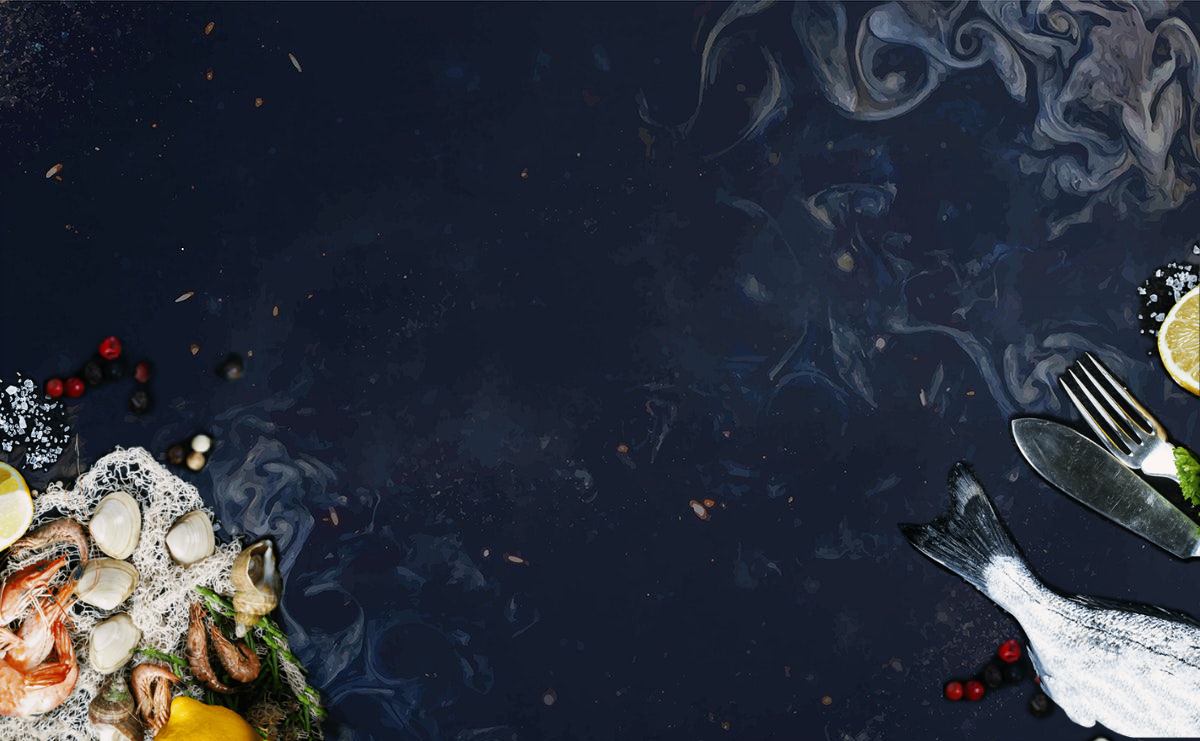
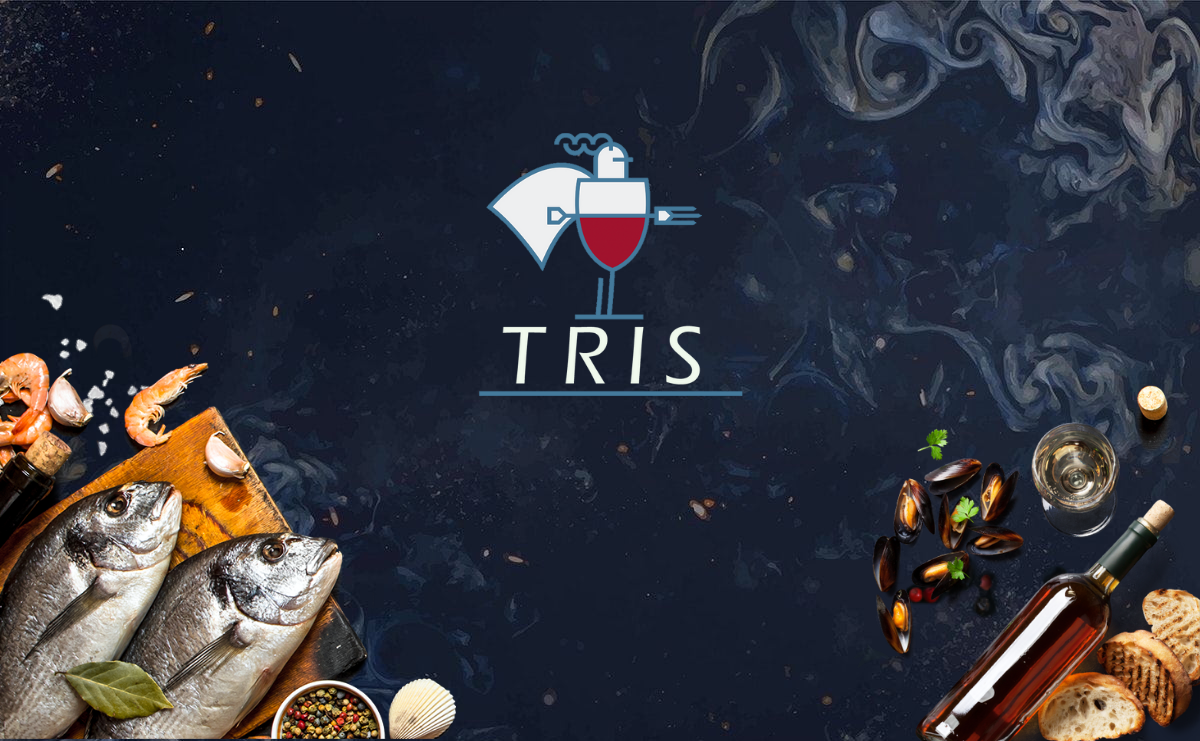
create slider for hero section

diff --git a/index.html b/index.html
@@ -36,17 +36,38 @@
       </nav>
     </header>
     <!-- main section -->
-    <main class="l-main">
-      <!-- <div class="l-main__hero">
-        <div class="l-main__hero--slider">
-          <img id="hero_bg" src="/img/main/hero/peakpx.jpg" alt="background image">
-          <div class="image-1__container">
-            <img src="/img/main/hero/pic1/p1-fr1.png">
-            <img src="/img/main/hero/pic1/p1-fr2.png">
-            <img src="/img/main/hero/pic1/p1-fr3.png">
-          </div>
-        </div>
-      </div> -->
+    <main class="l-main"> 
+      <!-- Slideshow container -->
+<div class="slideshow-container">
+
+  <!-- Full-width images with number and caption text -->
+  <div class="mySlides fade">
+    <img src="/img/main/hero/main-hero-bg1.png" style="width:100%">
+    <div class="text">Caption Text</div>
+  </div>
+
+  <div class="mySlides fade">
+    <img src="/img/main/hero/main-hero-bg2.png" style="width:100%">
+    <div class="text">Caption Two</div>
+  </div>
+
+  <div class="mySlides fade">
+    <img src="/img/main/hero/main-hero-bg3.png" style="width:100%">
+    <div class="text">Caption Three</div>
+  </div>
+
+  <!-- Next and previous buttons -->
+  <a class="prev" onclick="plusSlides(-1)">&#10094;</a>
+  <a class="next" onclick="plusSlides(1)">&#10095;</a>
+</div>
+<br>
+
+<!-- The dots/circles -->
+<div style="text-align:center">
+  <span class="dot" onclick="currentSlide(1)"></span>
+  <span class="dot" onclick="currentSlide(2)"></span>
+  <span class="dot" onclick="currentSlide(3)"></span>
+</div>
       <p>
         Lorem ipsum dolor sit amet consectetur adipisicing elit. Dolorem ex, eius cum tempora aut
         tenetur at itaque eligendi voluptatem et culpa est? Voluptate, fugit autem. Dolorem expedita

diff --git a/css/object/project/_home.scss b/css/object/project/_home.scss
@@ -1,0 +1,81 @@
+//*==========================
+//          hero
+//==========================
+.slideshow-container {
+    // max-width: 1000px;
+    // position: relative;
+    // margin: auto;
+  }
+  
+  /* Hide the images by default */
+  .mySlides {
+    display: none;
+  }
+  
+  /* Next & previous buttons */
+  .prev, .next {
+    cursor: pointer;
+    position: absolute;
+    top: 50%;
+    width: auto;
+    margin-top: -22px;
+    padding: 16px;
+    color: white;
+    font-weight: bold;
+    font-size: 18px;
+    transition: 0.6s ease;
+    border-radius: 0 3px 3px 0;
+    user-select: none;
+  }
+  
+  /* Position the "next button" to the right */
+  .next {
+    right: 0;
+    border-radius: 3px 0 0 3px;
+  }
+  
+  /* On hover, add a black background color with a little bit see-through */
+  .prev:hover, .next:hover {
+    background-color: rgba(0,0,0,0.8);
+  }
+  
+  /* Caption text */
+  .text {
+    color: #f2f2f2;
+    font-size: 15px;
+    padding: 8px 12px;
+    position: absolute;
+    bottom: 8px;
+    width: 100%;
+    text-align: center;
+  }
+  
+  /* Number text (1/3 etc) */
+ 
+  
+  /* The dots/bullets/indicators */
+  .dot {
+    cursor: pointer;
+    height: 15px;
+    width: 15px;
+    margin: 0 2px;
+    background-color: #bbb;
+    border-radius: 50%;
+    display: inline-block;
+    transition: background-color 0.6s ease;
+  }
+  
+  .active, .dot:hover {
+    background-color: #717171;
+  }
+  
+  /* Fading animation */
+  .fade {
+    animation-name: fade;
+    animation-duration: 1.5s;
+  }
+  
+  @keyframes fade {
+    from {opacity: .4}
+    to {opacity: 1}
+  }

diff --git a/css/style.css b/css/style.css
@@ -345,4 +345,80 @@ p {
   .l-footer__bottom--follow-us h3 {
     grid-row: 1/2;
   }
+}
+/* Hide the images by default */
+.mySlides {
+  display: none;
+}
+
+/* Next & previous buttons */
+.prev, .next {
+  cursor: pointer;
+  position: absolute;
+  top: 50%;
+  width: auto;
+  margin-top: -22px;
+  padding: 16px;
+  color: white;
+  font-weight: bold;
+  font-size: 18px;
+  transition: 0.6s ease;
+  border-radius: 0 3px 3px 0;
+  -webkit-user-select: none;
+     -moz-user-select: none;
+          user-select: none;
+}
+
+/* Position the "next button" to the right */
+.next {
+  right: 0;
+  border-radius: 3px 0 0 3px;
+}
+
+/* On hover, add a black background color with a little bit see-through */
+.prev:hover, .next:hover {
+  background-color: rgba(0, 0, 0, 0.8);
+}
+
+/* Caption text */
+.text {
+  color: #f2f2f2;
+  font-size: 15px;
+  padding: 8px 12px;
+  position: absolute;
+  bottom: 8px;
+  width: 100%;
+  text-align: center;
+}
+
+/* Number text (1/3 etc) */
+/* The dots/bullets/indicators */
+.dot {
+  cursor: pointer;
+  height: 15px;
+  width: 15px;
+  margin: 0 2px;
+  background-color: #bbb;
+  border-radius: 50%;
+  display: inline-block;
+  transition: background-color 0.6s ease;
+}
+
+.active, .dot:hover {
+  background-color: #717171;
+}
+
+/* Fading animation */
+.fade {
+  animation-name: fade;
+  animation-duration: 1.5s;
+}
+
+@keyframes fade {
+  from {
+    opacity: 0.4;
+  }
+  to {
+    opacity: 1;
+  }
 }/*# sourceMappingURL=style.css.map */

diff --git a/js/index.js b/js/index.js
@@ -19,3 +19,34 @@ for (var i = 0; i < menuItems.length; i++) {
     menuItem.classList.add('isActive')
   }
 }
+
+
+
+let slideIndex = 1;
+showSlides(slideIndex);
+
+// Next/previous controls
+function plusSlides(n) {
+  showSlides(slideIndex += n);
+}
+
+// Thumbnail image controls
+function currentSlide(n) {
+  showSlides(slideIndex = n);
+}
+
+function showSlides(n) {
+  let i;
+  let slides = document.getElementsByClassName("mySlides");
+  let dots = document.getElementsByClassName("dot");
+  if (n > slides.length) {slideIndex = 1}
+  if (n < 1) {slideIndex = slides.length}
+  for (i = 0; i < slides.length; i++) {
+    slides[i].style.display = "none";
+  }
+  for (i = 0; i < dots.length; i++) {
+    dots[i].className = dots[i].className.replace(" active", "");
+  }
+  slides[slideIndex-1].style.display = "block";
+  dots[slideIndex-1].className += " active";
+}
